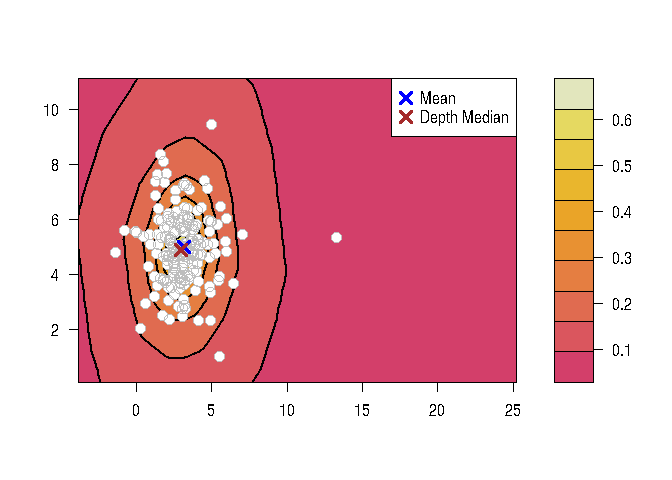
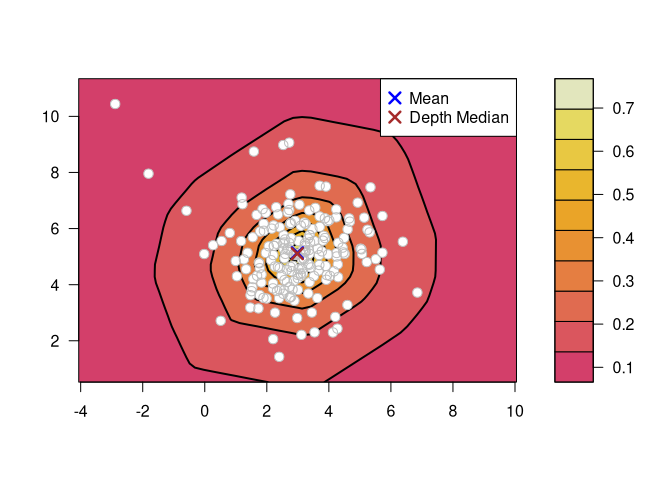
Re-knit the README benchmark so its numbers match its prose (F15)
The README's multithreading section claimed one thread is "4 times
slower" and two threads "2 times slower", but the pasted output showed
elapsed 0.033 / 0.039 / 0.020 -- the two-thread run, labelled slowest,
was the fastest of the three. The flagship argument for the C++/OpenMP
implementation contradicted itself three lines below the claim.

The prose was right and the output was stale. Measured on the current
source at the README's own n = 1000, d = 10:

  all threads  elapsed 0.120
  threads = 1  elapsed 0.447   3.73x
  threads = 2  elapsed 0.230   1.94x

So this is a re-knit, not a rewrite. n goes to 2000 to put the elapsed
column clear of timer noise, and the prose now says what the ratio is
relative to -- a 4-core machine -- so the same drift is visible next
time rather than silent.

Incidental to the re-knit: the `Coercing LHS to a list` warning under
the fncDepth FM example is gone, having been fixed in the source since
the last knit, and the three man/figures PNGs regenerate.

diff --git a/README.md b/README.md
@@ -44,28 +44,31 @@ install_github("zzawadz/DepthProc")
 ### Speed and multithreading
 
 Most of the code is written in C++ for additional efficiency. We also
-use OpenMP to speedup computations with multithreading:
+use OpenMP to speedup computations with multithreading. The speedup is
+close to linear in the number of cores — the timings below were knitted
+on a 4-core machine, so restricting `depth()` to one thread costs
+roughly 4x the elapsed time, and to two threads roughly 2x:
 
 ``` r
 library(DepthProc)
 set.seed(123)
 
 d <- 10
-x <- MASS::mvrnorm(1000, rep(0, d), diag(d))
+x <- MASS::mvrnorm(2000, rep(0, d), diag(d))
 # Default - utilize as many threads as possible
 system.time(depth(x, x, method = "LP"))
 #>    user  system elapsed 
-#>   0.408   0.054   0.033
+#>   1.864   0.001   0.473
 
-# Only single thread - 4 times slower:
+# Only single thread - compare the elapsed column:
 system.time(depth(x, x, method = "LP", threads = 1))
 #>    user  system elapsed 
-#>   0.039   0.000   0.039
+#>   1.769   0.000   1.772
 
-# Two threads - 2 times slower:
+# Two threads:
 system.time(depth(x, x, method = "LP", threads = 2))
 #>    user  system elapsed 
-#>   0.036   0.000   0.020
+#>   1.803   0.000   0.904
 ```
 
 ## Available depth functions
@@ -120,7 +123,6 @@ and Frainman-Muniz depth (FM):
 x <- matrix(rnorm(60), nc = 20)
 fncDepth(x, method = "MBD")
 fncDepth(x, method = "FM", dep1d_params = list(method = "Mahalanobis"))
-#> Warning in dep1d_params$u <- u[, i]: Coercing LHS to a list
 ```
 
 ### Functional BoxPlot
